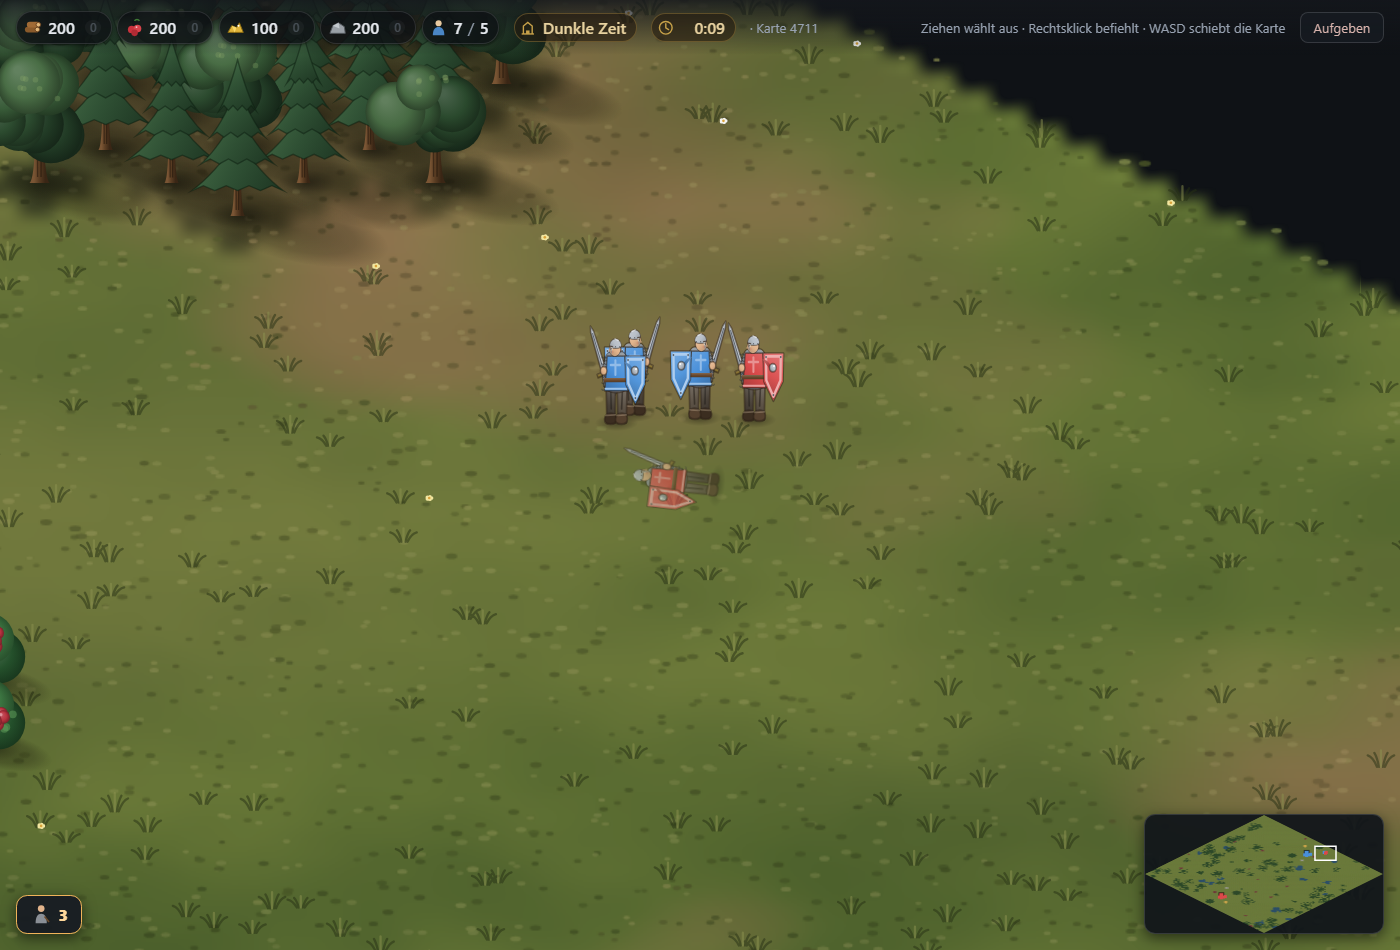
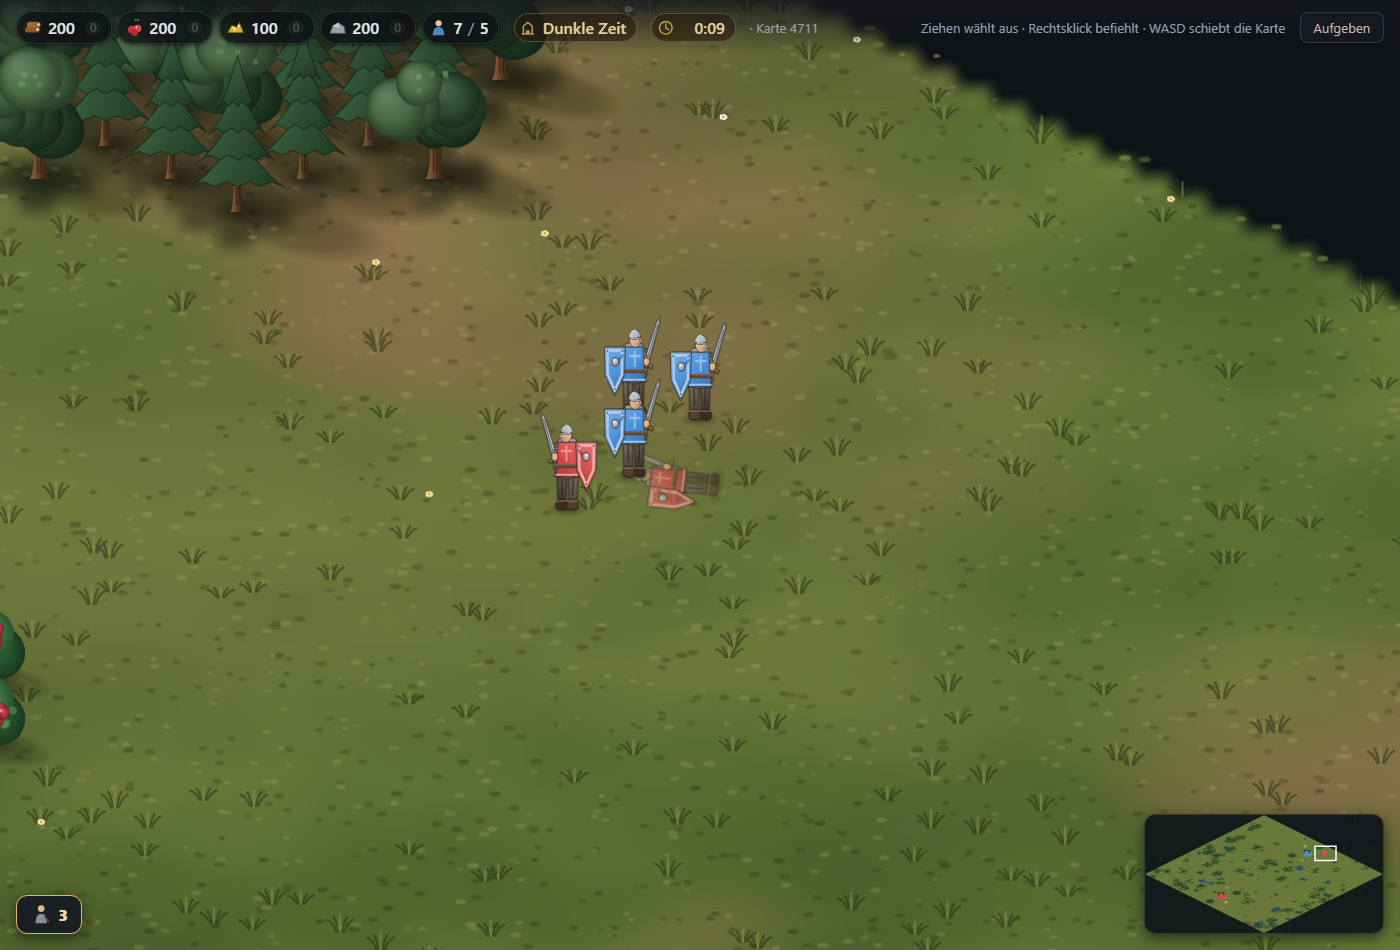
Kaempfende stehen nebeneinander: einheiten AC-31 ist fertig
Wer an seinem Ziel angekommen ist, tritt wie jeder Stehende beiseite -
nur auf ein Feld, von dem aus er sein Ziel weiter trifft, und seine
Nachladezeit laeuft dabei weiter. Ohne das Letzte kostete jeder Schritt
einen Schlag, und KI gegen KI dauerte im Median vier bis sechs Minuten
laenger. Jetzt: Startwerte 1-20 alle vor Minute 60 (Median 36,4),
21-40 wie HEAD 19 von 20. Der Konterkreis haelt. Die Kampfbilder pruefen
figurenFrei - drei blaue Milizen sind drei Figuren. Aus der Durchsicht:
800 angekommene Angreifer kosteten 0,74 ms je Durchgang, jetzt 0,28
(Merken, wer keinen Platz fand; Zahlen statt Zeichenketten als
Schluessel), mit eigenem Test. Die Feudalzeit am Stueck klickt bis zu
dreimal, wenn der erste Rechtsklick unter Last nicht trifft.

diff --git a/server/spiele/strategie/welt.js b/server/spiele/strategie/welt.js
@@ -1628,6 +1628,7 @@ class Welt {
     // Bogen fiel von 20/20 auf 14/20 (fahrplan AC-9, gemessen in Runde 85).
     if (nahGenug && (fern || !auftrag.gebaeude || !einheit.weg.length)) auftrag.angekommen = true;
     if (!nahGenug || (einheit.weg.length && !fern && !auftrag.angekommen)) {
+      auftrag.tritt = false;
       if (einheit.weg.length) {
         this.laufen(einheit);
         return;
@@ -1640,6 +1641,19 @@ class Welt {
       einheit.weg = stand ? this.wegNach(einheit, stand) : [];
       if (!einheit.weg.length) einheit.auftrag = null;
       return;
+    }
+    // Der eine Schritt beiseite (einheiten AC-31): wer auf einem anderen
+    // Kaempfer stand, geht auf ein freies Nachbarfeld, das sein Ziel in
+    // Schlagweite behaelt - und schlaegt danach von dort. Ohne diese Ausnahme
+    // loeschte die naechste Zeile den Schritt, bevor er begann.
+    if (auftrag.tritt) {
+      if (einheit.weg.length) {
+        // Die Nachladezeit laeuft weiter: der Schritt kostet keinen Schlag.
+        if (einheit.nachladen > 0) einheit.nachladen--;
+        this.laufen(einheit);
+        return;
+      }
+      auftrag.tritt = false;
     }
     einheit.weg = [];
     if (einheit.nachladen > 0) {
@@ -1878,7 +1892,11 @@ class Welt {
   ausweichen() {
     const stehend = [];
     const raster = new Map();
-    const schluessel = (x, y) => `${x},${y}`;
+    // Zahlen statt Zeichenketten als Schluessel: mit Kaempfern, die
+    // ausweichen duerfen, fragt jeder Stehende acht Nachbarfelder ab, und
+    // `${x},${y}` kostete dabei die Haelfte der Zeit (Runde 100, gemessen).
+    const g = this.karte.groesse;
+    const schluessel = (x, y) => y * g + x;
     for (const e of this.einheiten.values()) {
       if (e.tot || e.weg.length) continue;
       stehend.push(e);
@@ -1925,6 +1943,10 @@ class Welt {
       return belegt;
     };
     const gezogen = new Set();
+    // Wer in diesem Durchgang keinen Platz fand, wird nicht noch einmal
+    // gefragt: 800 angekommene Angreifer an einem Ziel fragten sonst jeden
+    // Nachbarn neu (0,74 ms je Durchgang statt 0,09; Durchsicht Runde 100).
+    const ohnePlatz = new Set();
     for (const e of stehend) {
       if (gezogen.has(e.id)) continue;
       const o = ersterNaher(e);
@@ -1934,10 +1956,14 @@ class Welt {
       // der andere; sonst blieben beide aufeinander, obwohl einer Platz haette
       // (Durchsicht Runde 89).
       for (const wer of o.id > e.id ? [o, e] : [e, o]) {
-        if (!this.darfAusweichen(wer)) continue;
+        if (ohnePlatz.has(wer.id) || !this.darfAusweichen(wer)) continue;
         const feld = this.ausweichfeld(wer, belegung());
-        if (!feld) continue;
+        if (!feld) {
+          ohnePlatz.add(wer.id);
+          continue;
+        }
         wer.weg = [feld];
+        if (wer.auftrag?.art === 'angreifen') wer.auftrag.tritt = true;
         belegung().add(schluessel(feld.x, feld.y));
         gezogen.add(wer.id);
         break;
@@ -1945,16 +1971,24 @@ class Welt {
     }
   }
 
-  // Wer ausweichen darf: nicht, wer kaempft (seinen Platz verteilt kampf AC-1),
-  // nicht der Bauer auf seiner Farm (eine Farm hat einen Arbeiter) - und noch
-  // nicht, wer am Vorrat oder am Tier arbeitet. Sammler, die sich nicht
+  // Wer ausweichen darf: wer kaempft, erst wenn er an seinem Ziel angekommen
+  // ist und es noch steht - dann auf ein Feld in Schlagweite (einheiten AC-31,
+  // Runde 100); nicht der Bauer auf seiner Farm (eine Farm hat einen
+  // Arbeiter) - und noch nicht, wer am Vorrat oder am Tier arbeitet. Sammler, die sich nicht
   // stapeln, kosten die Wirtschafts-KI im Median 0,4 Minuten bis zu den
   // ersten 500 Nahrung, und neun von vierzig KIs verfehlen damit die zehn
   // Minuten aus fahrplan AC-5 (Runde 89, gemessen). Das ist einheiten AC-30,
   // eine eigene Runde.
   darfAusweichen(einheit) {
     const art = einheit.auftrag?.art;
-    return art !== 'angreifen' && art !== 'farm' && art !== 'sammeln' && art !== 'tier';
+    if (art === 'angreifen') return Boolean(einheit.auftrag.angekommen && this.angriffsziel(einheit.auftrag));
+    return art !== 'farm' && art !== 'sammeln' && art !== 'tier';
+  }
+
+  // Das Ziel eines Angriffs, solange es steht.
+  angriffsziel(auftrag) {
+    const ziel = auftrag.gebaeude ? this.gebaeude.get(auftrag.ziel) : this.einheiten.get(auftrag.ziel);
+    return ziel && !ziel.tot ? ziel : null;
   }
 
   /**
@@ -1972,6 +2006,13 @@ class Welt {
     if (auftrag?.art === 'bauen') {
       const baustelle = this.gebaeude.get(auftrag.gebaeude);
       passt = (x, y) => !baustelle || this.abstandZu({ x, y }, baustelle) <= 1.2;
+    } else if (auftrag?.art === 'angreifen') {
+      // Dieselbe Schlagweite wie in angriffTakten - wer dort steht, schlaegt.
+      const ziel = this.angriffsziel(auftrag);
+      const reichweite = this.einheitenwert(einheit.besitzer, einheit.art, 'reichweite') || 1;
+      passt = (x, y) => Boolean(ziel) && (auftrag.gebaeude
+        ? this.abstandZu({ x, y }, ziel) <= reichweite + SCHLAGRAND_BAU
+        : Math.hypot(ziel.x - x, ziel.y - y) <= reichweite + SCHLAGRAND);
     }
     let bestes = null;
     let bester = Infinity;
@@ -1980,7 +2021,7 @@ class Welt {
         if (!dx && !dy) continue;
         const x = fx + dx;
         const y = fy + dy;
-        if (belegt.has(`${x},${y}`)) continue;
+        if (belegt.has(y * this.karte.groesse + x)) continue;
         if (!karten.begehbar(this.karte, x, y) || this.gebaeudeAn(x, y) || !passt(x, y)) continue;
         // Schraeg nur, wenn beide Ecken frei sind: auf halbem Weg rundet die
         // Lage auf eines der beiden geraden Nachbarfelder - war das Wald,

diff --git a/docs/strategie/erkenntnisse.md b/docs/strategie/erkenntnisse.md
@@ -96,6 +96,13 @@ etwas anderem gearbeitet.
   [ADR-0012](../adr/0012-aoe2-als-vorlage.md) nachsehen. Nicht vor Stufe E
   (fünf Völker) vorschlagen — vorher gibt es nicht genug Spieler in einer
   Partie, an denen ein Bündnis etwas ändert.
+- **fahrplan AC-11 hängt an der Auswahl der Startwerte** (Runde 100). Auf
+  den Startwerten 21 bis 40 enden 19 von 20 vor Minute 60 — mit HEAD wie mit
+  dem Arbeitsstand (Startwert 29 bzw. 24 nach 74 Minuten). Und dort steht
+  einmal ein Dorfbewohner **über 900 Sekunden** untätig (HEAD 921 s), während
+  ki AC-10 auf 1 bis 20 höchstens 12,9 s bis Minute 30 misst. Beides
+  ansehen: `npm run pruefstand:vergleich -- --startwert 21 --minuten 90`,
+  dann `pruefstand:verlauf` auf den langen.
 - **Eine Bildunterschrift stimmt nicht: `einheiten AC-15`** (gesehen in
   Runde 80, `bedienung AC-16` ist seit Runde 83 behoben). Sie verspricht „ein
   Dorfbewohner trägt gelbe Goldbrocken in beiden Händen"; im Bild stehen die
@@ -979,6 +986,32 @@ nächste Runde.
 Neueste oben. Eine Zeile je Runde: Nummer, Datum, Kriterien, Ergebnis,
 wichtigste Erkenntnis.
 
+- **100** · 2026-11-08 · **einheiten AC-31** — Kämpfende stehen nebeneinander.
+  Wer an seinem Ziel angekommen ist, tritt wie jeder Stehende beiseite, aber
+  nur auf ein Feld in Schlagweite; der Schritt ist am Auftrag vermerkt, sonst
+  löschte `angriffTakten` ihn im selben Takt. Gegenprobe gegen die alte Regel:
+  0,00 Felder auseinander. Im Browser prüfen kampf AC-1 und AC-10 jetzt
+  `figurenFrei` (die Prüfung stand dort seit der Rückschau nach Runde 65
+  auskommentiert); drei blaue Milizen sind drei Figuren. **Zuerst wurden die
+  Partien länger** — Median 38,1 statt 33,8 auf Startwerten 1–20, 44,8 statt
+  38,2 auf 21–40, eine Partie nach 75 Minuten —, weil während des Schritts
+  die Nachladezeit stand und jeder Schritt einen Schlag kostete. Mit
+  weiterlaufender Nachladezeit: 36,4 und 39,4, alle zwanzig vor Minute 60.
+  Die Durchsicht fand keinen Fehler, aber einen Kostenfall, den der alte
+  Leistungstest nicht sah (sein Ziel gab es nicht): 800 angekommene Angreifer
+  an einem echten Ziel 0,74 ms je Durchgang, mit Merken, wer keinen Platz
+  fand, 0,48, mit Zahlen statt `"x,y"` als Feldschlüssel 0,28 (im
+  parallelen `npm run check` waren 0,48 schon 1,006 ms) — jetzt ein eigener
+  Test. Im großen Browserlauf fiel wie in Runde 99 die Feudalzeit am Stück
+  beim Warten auf den ersten Treffer, allein grün: unter Last trifft der
+  Rechtsklick nicht immer das Ziel; der Test klickt jetzt bis zu dreimal
+  (gemessen wird dort der Schaden, nicht der Klick). Unter Last ungeprüft,
+  bis der nächste große Lauf es zeigt. Die Gegenprobe zu ki AC-19 hing an
+  Startwert 5, der jetzt auch ohne Aufgeben vor Minute 60 endet; sie misst
+  jetzt Startwert 13 (35,8 statt 45,8). **Gelernt: eine Änderung an der
+  Bewegung im Kampf verschiebt jede Partie** — vergleichen auf zwei Sätzen
+  Startwerte, sonst hält man Zufall für Wirkung; und auf dem zweiten Satz
+  zeigte sich, dass fahrplan AC-11 auch mit HEAD nur 19 von 20 schafft.
 - **99** · 2026-11-08 · **darstellung AC-16** — die Partie beginnt in
   Spielgröße. Der Faden „Figuren bei Zoom 1" hieß: zeichnen. Gemessen zeigte
   sich, dass nicht die Zeichnung zu klein war, sondern der Maßstab: ein Feld

diff --git a/specs/BOARD.md b/specs/BOARD.md
@@ -7,9 +7,9 @@ Eine Zeile je Abnahmekriterium. Gepflegt wird der Status in der Spec selbst,
 hier steht er zusammengefasst. Erzeugt mit `npm run specs:board`; als Seite
 mit Bildnachweisen, Filter und Suche mit `npm run qa:report`.
 
-**Gesamt:** 399/526 fertig · 1 in Arbeit · 5 in QA · 4 geplant · 109 offen · 8 zurueckgestellt
+**Gesamt:** 400/526 fertig · 1 in Arbeit · 5 in QA · 4 geplant · 108 offen · 8 zurueckgestellt
 
-**Nachweise:** 165 Kriterien mit Bild · 238 ohne Bild, begruendet in `qa/ohne-bild.json`
+**Nachweise:** 166 Kriterien mit Bild · 238 ohne Bild, begruendet in `qa/ohne-bild.json`
 
 ## Nach Spezifikation
 
@@ -24,7 +24,7 @@ mit Bildnachweisen, Filter und Suche mit `npm run qa:report`.
 | [Bauen und Ausbilden](10-strategie/bauen.md)                   | -         | -     | -       | 4     | -               | 22     |
 | [Bedienung](10-strategie/bedienung.md)                         | -         | -     | -       | 11    | -               | 27     |
 | [Darstellung](10-strategie/darstellung.md)                     | -         | -     | -       | 2     | -               | 14     |
-| [Einheiten und Befehle](10-strategie/einheiten-und-befehle.md) | -         | -     | -       | 3     | 1               | 20     |
+| [Einheiten und Befehle](10-strategie/einheiten-und-befehle.md) | -         | -     | -       | 2     | 1               | 21     |
 | [Fahrplan zum Klon](10-strategie/fahrplan.md)                  | -         | -     | -       | 11    | -               | 11     |
 | [Kampf](10-strategie/kampf.md)                                 | -         | -     | -       | 4     | 1               | 9      |
 | [Karte und Vorraete](10-strategie/karte-und-vorraete.md)       | -         | -     | -       | 2     | 3               | 12     |
@@ -64,7 +64,7 @@ mit Bildnachweisen, Filter und Suche mit `npm run qa:report`.
 - **Abbruch ist sichtbar** — [Uebertragung](00-plattform/uebertragung.md) AC-9
 - **Automatischer Wiederaufbau** — [Uebertragung](00-plattform/uebertragung.md) AC-10
 
-## Offen (109)
+## Offen (108)
 
 - **Anmeldung ueber Google/GitHub** — [Konten und Anmeldung](00-plattform/konten.md) AC-6
 - **Bilanz je Konto** — [Konten und Anmeldung](00-plattform/konten.md) AC-14
@@ -129,7 +129,6 @@ mit Bildnachweisen, Filter und Suche mit `npm run qa:report`.
 - **Nur eigenes Material** — [Darstellung](10-strategie/darstellung.md) AC-11
 - **Einheiten blockieren sich nicht** — [Einheiten und Befehle](10-strategie/einheiten-und-befehle.md) AC-10
 - **Sammler teilen keinen Platz** — [Einheiten und Befehle](10-strategie/einheiten-und-befehle.md) AC-30
-- **Kämpfende stehen nebeneinander** — [Einheiten und Befehle](10-strategie/einheiten-und-befehle.md) AC-31
 - **Mensch gegen KI spielbar** — [Fahrplan zum Klon](10-strategie/fahrplan.md) AC-12
 - **Nebel auf dem Server** — [Fahrplan zum Klon](10-strategie/fahrplan.md) AC-13
 - **Ritterzeit spielbar** — [Fahrplan zum Klon](10-strategie/fahrplan.md) AC-14

diff --git a/specs/10-strategie/einheiten-und-befehle.md b/specs/10-strategie/einheiten-und-befehle.md
@@ -2,7 +2,7 @@
 
 **Bereich:** Strategie
 **Kuerzel:** einheiten
-**Stand:** 20/24 fertig · 3 offen · 1 zurueckgestellt
+**Stand:** 21/24 fertig · 2 offen · 1 zurueckgestellt
 
 ## Zweck
 
@@ -133,8 +133,8 @@ Befehl bewirkt.
   Baustelle). Schräg nur, wenn beide Ecken frei sind. **Messbar: keine zwei
   stehenden Einheiten im Bild näher als ein halbes Feld** (`figurenFrei`), auch
   wenn sie mit getrennten Befehlen auf dasselbe Feld geschickt wurden.
-  **Noch nicht** für Sammler am Vorrat und am Tier (AC-30) und nicht für
-  Kämpfende (AC-31). Gesehen in Runde 64; danach siebenmal an der Stelle
+  **Noch nicht** für Sammler am Vorrat und am Tier (AC-30); Kämpfende seit
+  Runde 100 (AC-31). Gesehen in Runde 64; danach siebenmal an der Stelle
   umschifft, die ein Ziel vergibt (Runden 56 bis 86), bis die Rückschau nach
   Runde 88 die Regel aufstellte, einen offenen Fehler nur einmal zu umschiffen.
 - **AC-30** `offen` **Sammler teilen keinen Platz** — Auch wer am Vorrat oder
@@ -146,8 +146,15 @@ Befehl bewirkt.
   nächsten liegt. Nicht geholfen haben: das freie Feld nach dem Lager wählen,
   auf ein anderes Buschfeld wechseln, weniger Sammler an die Beeren. Die
   Antwort liegt vermutlich in der Lage der Mühle.
-- **AC-31** `offen` **Kämpfende stehen nebeneinander** — Nahkämpfer um ihr
-  Ziel und Fernkämpfer auf ihrem Schussring stehen nicht aufeinander. Im Bild
+- **AC-31** `fertig` **Kämpfende stehen nebeneinander** — Nahkämpfer um ihr
+  Ziel und Fernkämpfer auf ihrem Schussring stehen nicht aufeinander. **Gebaut
+  in Runde 100:** wer am Ziel angekommen ist, darf wie jeder Stehende (AC-29)
+  beiseitetreten — aber nur auf ein Feld, von dem aus er sein Ziel weiter
+  trifft; während des Schritts läuft seine Nachladezeit weiter. Ohne das
+  Letzte kostete jeder Schritt einen Schlag, und KI gegen KI dauerte im Median
+  vier bis sechs Minuten länger (Startwerte 1–20: 38,1 statt 33,8; 21–40: 44,8
+  statt 38,2); mit ihm 36,4 und 39,4. Der Konterkreis hält in allen vier
+  Richtungen. Im Bild
   zu [Kampf](kampf.md) AC-1 und AC-10 stehen zwei angreifende Milizen fast
   aufeinander (Rückstand der Runde 83). **Bedingung:** der Konterkreis hält
   (fahrplan AC-9) — die Angriffslogik ist auf ihn abgestimmt (Runden 63, 64,

diff --git a/docs/strategie/steuerstand.md b/docs/strategie/steuerstand.md
@@ -13,19 +13,18 @@ hier nichts eintraegt, verliert den Faden beim naechsten Autocompact.
 
 ## Zuletzt fortgeschrieben
 
-2026-11-08, nach Runde 99 (**darstellung AC-16**: die Partie beginnt bei
-Zoom 1,5 statt 1 - ein Dorfbewohner 42,9 statt 28,6 Bildpunkte, nah am
-Original. Zoom 1 bleibt der Massstab der Unterscheidbarkeitskriterien. Alle
-Bilder neu geschrieben. **Als Naechstes einheiten AC-31** (Kaempfende stehen
-uebereinander - in zwei Kampfbildern erneut gesehen, oft genug umschifft),
-dann C5: Mensch gegen KI (spielauswahl AC-18, AC-19, fahrplan AC-12).
-**Naechste Rueckschau: Runde 103.**)
+2026-11-08, nach Runde 100 (**einheiten AC-31**: Kaempfende treten beiseite,
+nur auf ein Feld in Schlagweite, die Nachladezeit laeuft dabei weiter. KI
+gegen KI: Startwerte 1-20 alle vor Minute 60, Median 36,4. Neuer Faden: auf
+Startwerten 21-40 nur 19/20 (auch HEAD) und einmal 900 s Untaetigkeit.
+**Als Naechstes C5: Mensch gegen KI** (spielauswahl AC-18, AC-19, fahrplan
+AC-12). **Naechste Rueckschau: Runde 103.**)
 
 ## Wo ich stehe
 
 - **Branch:** `strategie`. Nie auf `main` arbeiten, **nie pushen, nie deployen.**
-- **Board:** 399 von 526 Kriterien fertig · 1 in Arbeit · 5 in QA · 4 geplant ·
-  109 offen · 8 zurueckgestellt. 477 Tests ohne Browser, 168 im Browser.
+- **Board:** 400 von 526 Kriterien fertig · 1 in Arbeit · 5 in QA · 4 geplant ·
+  108 offen · 8 zurueckgestellt. 479 Tests ohne Browser, 168 im Browser.
 - **Fuenf Waechter in `tests/waechter-*.test.mjs`** (der fuenfte seit Runde 87: Bildschirmtext mit echten Umlauten): Gleichheit auf wachsenden
   Listen, verbesserbare Werte an `welt.einheitenwert()` vorbei,
   Bildunterschriften mit `${...}`, und (neu in Runde 73) die **Kuerzeltafel**

diff --git a/specs/10-strategie/fahrplan.md b/specs/10-strategie/fahrplan.md
@@ -124,7 +124,9 @@ neuen Karte grün bleiben.
   Median 33,8 (Runde 92: 4 von 20 vor Minute 60). Getragen von
   [KI](ki.md) AC-16 bis AC-19; die letzte Partie über 60 Minuten war ein
   Verlierer ohne jede Einheit, dessen Gebäude achteinhalb Minuten lang
-  geschleift wurden — jetzt gibt er auf.
+  geschleift wurden — jetzt gibt er auf. Nach einheiten AC-31 (Runde 100):
+  25,7 bis 53,1 Minuten, Median 36,4. **Auf den Startwerten 21 bis 40 sind es
+  19 von 20** — vorher wie nachher; die Auswahl der ersten zwanzig trägt mit.
 - **AC-12** `offen` **Mensch gegen KI spielbar** — Eine Partie allein gegen die KI lässt sich
   eröffnen, spielen und mit Abschlussbild beenden.
 - **AC-13** `offen` **Nebel auf dem Server** — Ein Spieler erhält nur, was seine Einheiten und

diff --git a/specs/10-strategie/ki.md b/specs/10-strategie/ki.md
@@ -176,7 +176,9 @@ nicht die Regeln.
   wer noch einen Dorfbewohner hat oder 50 Nahrung neben dem Dorfzentrum,
   spielt weiter. Beim Startwert 5 stand die KI ab Minute 53,5 mit 28 Nahrung
   und ohne Einheit da, der Sieger schliff ihre Gebäude bis Minute 62 (Runde
-  97). Damit enden alle zwanzig Partien vor Minute 60 (fahrplan AC-11).
+  97). Damit enden alle zwanzig Partien vor Minute 60 (fahrplan AC-11). Seit
+  Runde 100 (einheiten AC-31) enden sie auch ohne Aufgeben vor Minute 60;
+  das Aufgeben verkürzt jede um 0,4 bis 10 Minuten.
   **Gemessen und verworfen:** stattdessen gegen einen Gegner ohne
   Kampfeinheit nur Nahkämpfer auszubilden — die längste Partie endete nach
   61,9 statt 62,0 Minuten, weil das Heer beim Schleifen schon steht.

diff --git a/CLAUDE.md b/CLAUDE.md
@@ -157,7 +157,7 @@ Umfang hinzufügt, dort nachsehen.
 
 ## Stand
 
-**399 von 526 Kriterien fertig.** 477 Tests ohne Browser, 168 im Browser. Die
+**400 von 526 Kriterien fertig.** 479 Tests ohne Browser, 168 im Browser. Die
 Übersicht ist der Bericht: `npm run qa:report`.
 
 Gebaut ist der Unterbau: Räume, Übertragung, Karte, Wegfindung, Sammeln,
